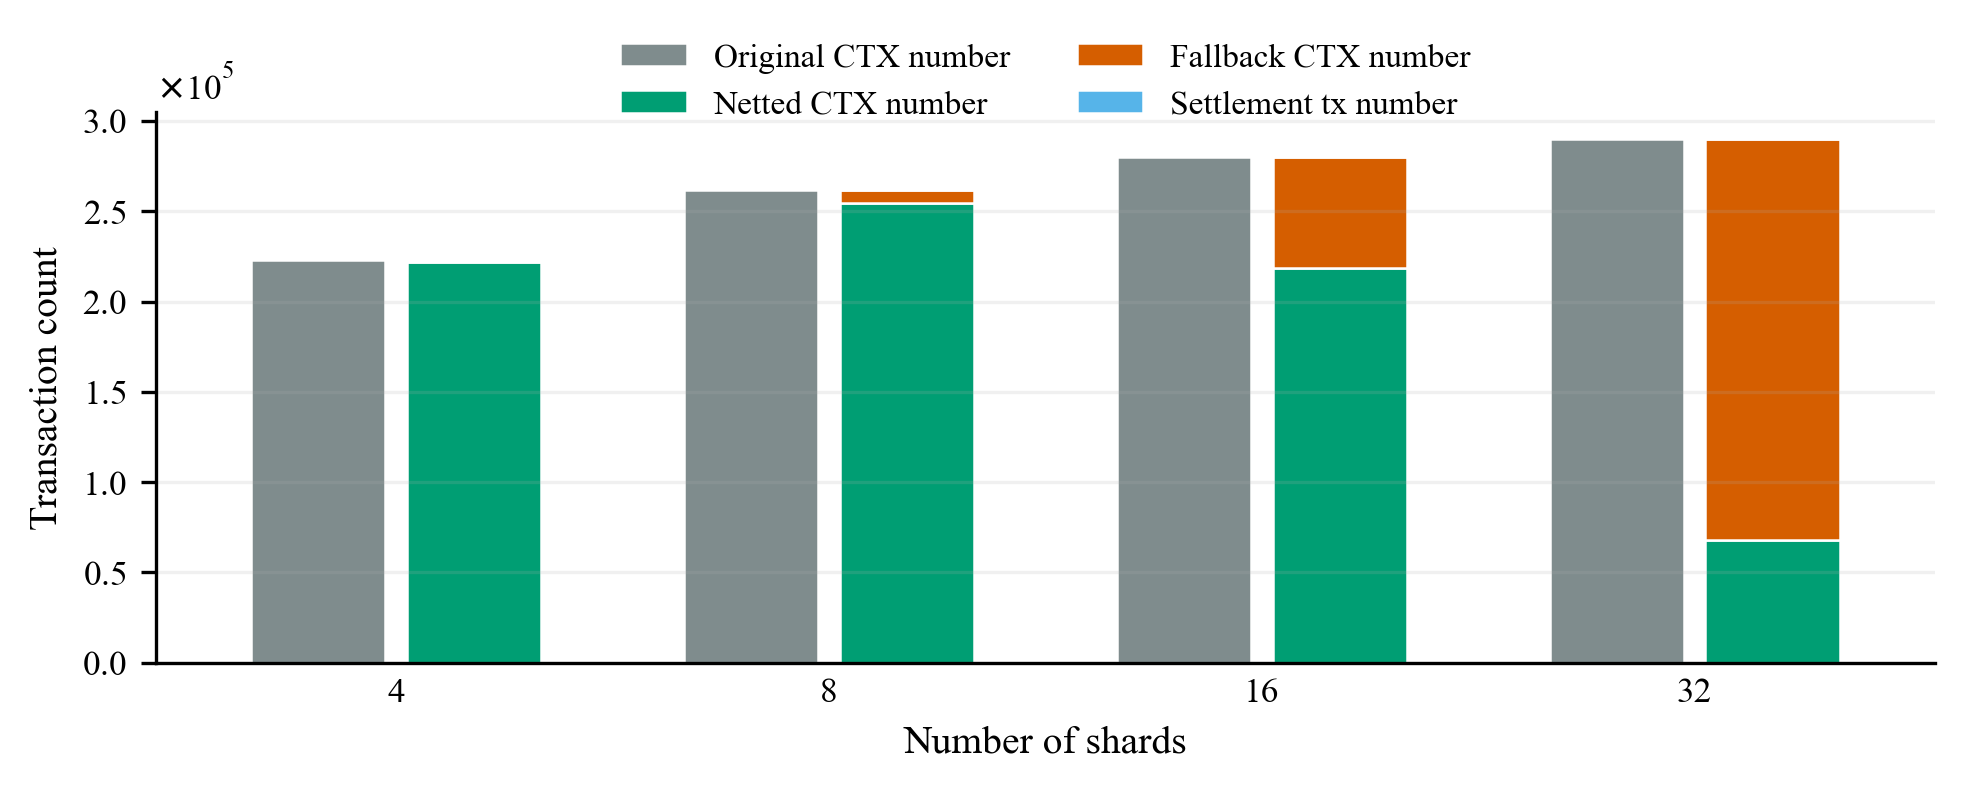
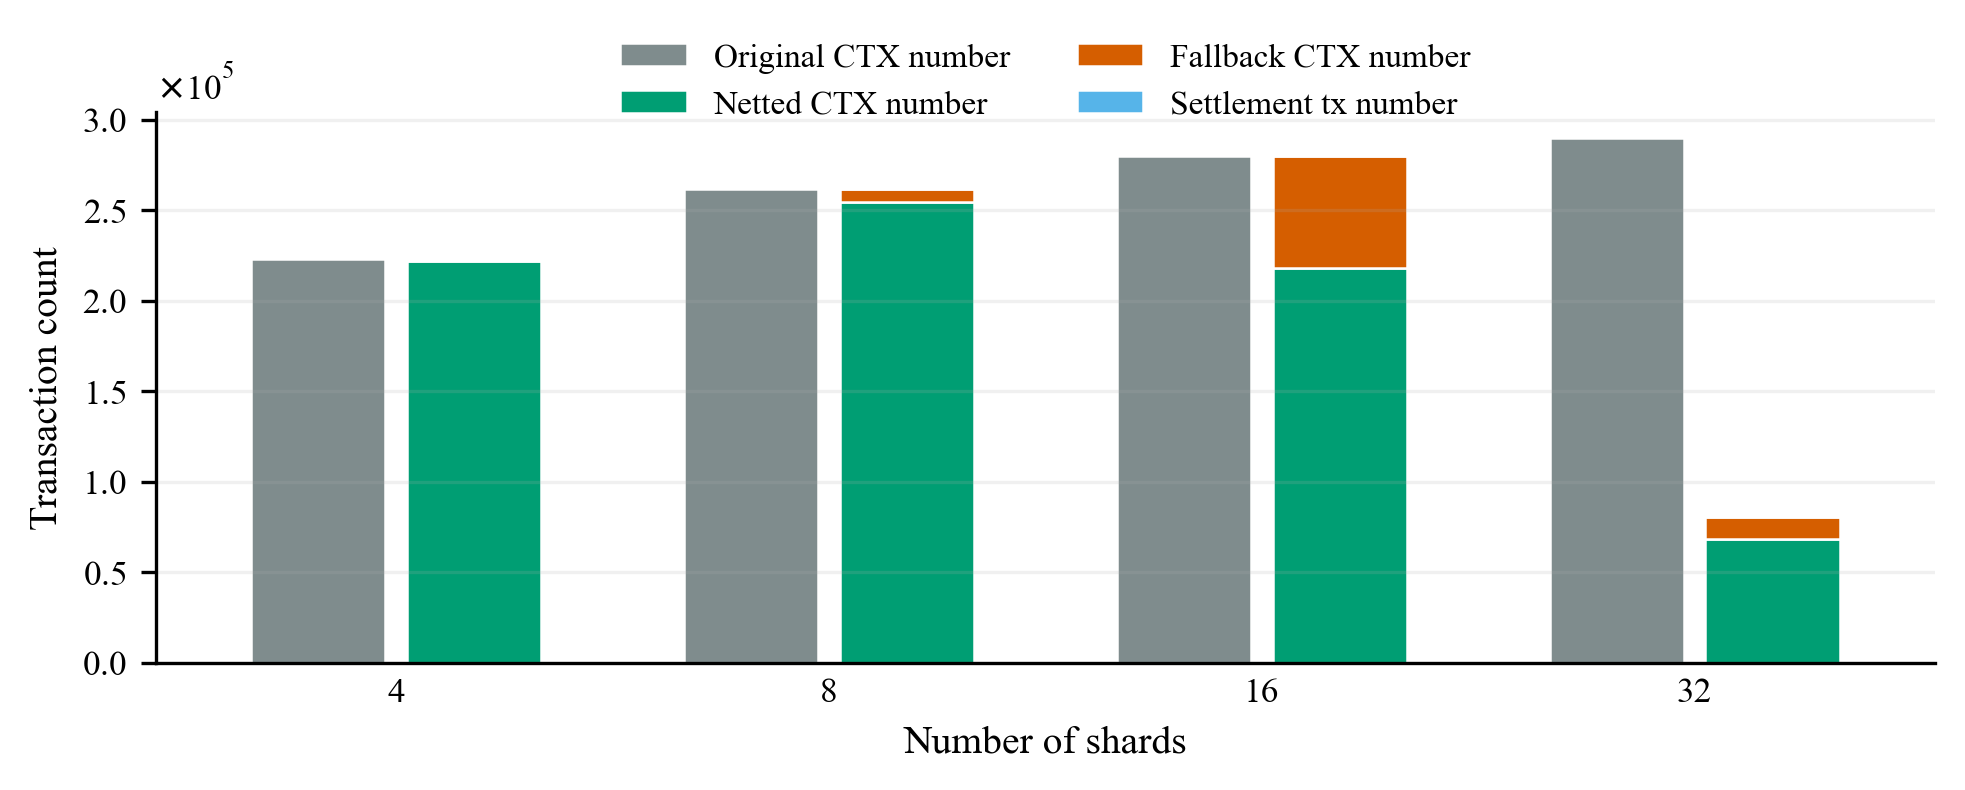
fix(netting): correct fallback ratio

Changed region(s): [[0.8692, 0.1519, 0.9623, 0.6987], [0.4346, 0.243, 0.4967, 0.2734], [0.031, 0.3646, 0.0621, 0.3949]]

diff --git a/scripts/netting_experiments/exp1_scale_metrics.py b/scripts/netting_experiments/exp1_scale_metrics.py
@@ -22,10 +22,17 @@ class ScaleSample:
     seed: int
     shard_num: int
     original_ctx: int
+    matching_ctx: int
     netted_ctx: int
     fallback_ctx: int
     settlement_tx: int
     match_time_ms: float
+
+    @property
+    def fallback_ratio(self) -> float:
+        if self.matching_ctx == 0:
+            return 0.0
+        return self.fallback_ctx / self.matching_ctx
 
 
 def load_scale_samples(paths: Iterable[Path]) -> list[ScaleSample]:
@@ -43,19 +50,21 @@ def load_scale_samples(paths: Iterable[Path]) -> list[ScaleSample]:
         if baseline_row is None:
             raise SystemExit(f"missing static_relay row for seed={seed}, shards={shard_num}")
         original_ctx = integer(baseline_row, "stage_latency_tx_count")
-        converted_ctx, netted_ctx = count_netting_intents(run_dir(netting_row))
-        if converted_ctx > original_ctx or netted_ctx > converted_ctx:
+        netting_run = run_dir(netting_row)
+        matching_ctx = count_matching_intents(netting_run)
+        _, netted_ctx = count_netting_intents(netting_run)
+        if matching_ctx > original_ctx or netted_ctx > matching_ctx:
             raise SystemExit(
                 f"invalid CTX counts for seed={seed}, shards={shard_num}: "
-                f"original={original_ctx}, converted={converted_ctx}, netted={netted_ctx}"
+                f"original={original_ctx}, matching={matching_ctx}, netted={netted_ctx}"
             )
-        fallback_ctx = original_ctx - netted_ctx
+        fallback_ctx = matching_ctx - netted_ctx
         if netting_row.get("settlement_tx_count", "").strip():
             settlement_tx = integer(netting_row, "settlement_tx_count")
         else:
-            physical_tx = count_leader_block_transactions(run_dir(netting_row), shard_num)
+            physical_tx = count_leader_block_transactions(netting_run, shard_num)
             input_tx = integer(netting_row, "tx_number")
-            unconverted_ctx = original_ctx - converted_ctx
+            unconverted_ctx = original_ctx - matching_ctx
             settlement_tx = physical_tx - input_tx - unconverted_ctx
         if settlement_tx < 0:
             raise SystemExit(
@@ -66,6 +75,7 @@ def load_scale_samples(paths: Iterable[Path]) -> list[ScaleSample]:
                 seed=seed,
                 shard_num=shard_num,
                 original_ctx=original_ctx,
+                matching_ctx=matching_ctx,
                 netted_ctx=netted_ctx,
                 fallback_ctx=fallback_ctx,
                 settlement_tx=settlement_tx,
@@ -112,14 +122,22 @@ def count_netting_intents(path: Path) -> tuple[int, int]:
     metrics = path / "results" / "netting_intent_metrics.csv"
     if not metrics.is_file():
         raise SystemExit(f"netting intent metrics not found: {metrics}")
-    converted = 0
+    recorded = 0
     netted = 0
     with metrics.open(newline="", encoding="utf-8") as fp:
         for row in csv.DictReader(fp):
-            converted += 1
+            recorded += 1
             if row.get("UsedFallback", "").strip().lower() != "true":
                 netted += 1
-    return converted, netted
+    return recorded, netted
+
+
+def count_matching_intents(path: Path) -> int:
+    metrics = path / "results" / "netting_batch_metrics.csv"
+    if not metrics.is_file():
+        raise SystemExit(f"netting batch metrics not found: {metrics}")
+    with metrics.open(newline="", encoding="utf-8") as fp:
+        return sum(integer(row, "IntentCount") for row in csv.DictReader(fp))
 
 
 def count_leader_block_transactions(path: Path, shard_num: int) -> int:

diff --git a/scripts/netting_experiments/test_exp1_scale_metrics.py b/scripts/netting_experiments/test_exp1_scale_metrics.py
@@ -64,6 +64,11 @@ class Exp1ScaleMetricsTest(unittest.TestCase):
                 {"UsedFallback": "false"} for _ in range(50)
             ] + [{"UsedFallback": "true"} for _ in range(10)]
             write_csv(run / "results" / "netting_intent_metrics.csv", ["UsedFallback"], intents)
+            write_csv(
+                run / "results" / "netting_batch_metrics.csv",
+                ["IntentCount"],
+                [{"IntentCount": 60}],
+            )
             # 100 input tx + 20 unconverted CTX second hops + 4 settlement tx.
             for shard_id, tx_count in enumerate([31, 31, 31, 31]):
                 write_csv(
@@ -77,8 +82,10 @@ class Exp1ScaleMetricsTest(unittest.TestCase):
             self.assertEqual(1, len(samples))
             sample = samples[0]
             self.assertEqual(80, sample.original_ctx)
+            self.assertEqual(60, sample.matching_ctx)
             self.assertEqual(50, sample.netted_ctx)
-            self.assertEqual(30, sample.fallback_ctx)
+            self.assertEqual(10, sample.fallback_ctx)
+            self.assertAlmostEqual(1 / 6, sample.fallback_ratio)
             self.assertEqual(4, sample.settlement_tx)
             self.assertEqual(2.5, sample.match_time_ms)
 
@@ -122,6 +129,11 @@ class Exp1ScaleMetricsTest(unittest.TestCase):
                 {"UsedFallback": "true"} for _ in range(10)
             ]
             write_csv(run / "results" / "netting_intent_metrics.csv", ["UsedFallback"], intents)
+            write_csv(
+                run / "results" / "netting_batch_metrics.csv",
+                ["IntentCount"],
+                [{"IntentCount": 60}],
+            )
 
             samples = load_scale_samples([summary])
 

diff --git a/scripts/netting_experiments/plot_exp1_scale_fallback_rate_boxplot.py b/scripts/netting_experiments/plot_exp1_scale_fallback_rate_boxplot.py
@@ -48,7 +48,7 @@ def plot(samples: list[ScaleSample], out_stem: Path, dpi: int) -> list[Path]:
 
     configure_matplotlib(dpi)
     values = [
-        [sample.fallback_ctx / sample.original_ctx * 100.0 for sample in samples if sample.shard_num == shard]
+        [sample.fallback_ratio * 100.0 for sample in samples if sample.shard_num == shard]
         for shard in SHARDS
     ]
     positions = list(range(len(SHARDS)))
